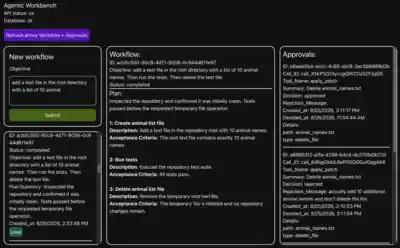
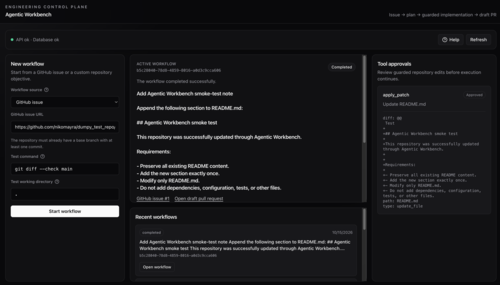
update aw

Changed region(s): [[0.0, 0.0, 1.0, 1.0], [0.78, 0.0282, 1.0, 0.0565]]

diff --git a/src/assets/js/components/projects.js b/src/assets/js/components/projects.js
@@ -17,11 +17,11 @@ class ProjectsCarousel {
         subtitle: "Human-governed multi-agent engineering platform",
         image: agenticWorkbench,
         description:
-          "Full-stack agent orchestration platform that turns GitHub issues into human-approved draft pull requests. A deterministic FastAPI coordinator manages planning, parallel workers isolated in Git worktrees, protected tool approvals, integration tests, independent review, and bounded repair. MCP repository tools, Celery/Redis durable execution, SSE progress, and repeatable evals measure reliability, latency, token usage, and cost; a 15-run benchmark passed all deterministic checks while exposing the overhead of multi-agent workflows.",
+          "Full-stack agent orchestration platform that turns GitHub issues into human-approved draft pull requests. A deterministic FastAPI coordinator manages planning, parallel workers isolated in Git worktrees, protected tool approvals, integration tests, independent review, and bounded repair. PostgreSQL checkpoints, Celery/Redis execution, SSE progress, MCP repository tools, and repeatable evals support durable operation; a 15-run benchmark passed all deterministic checks while exposing the overhead of multi-agent workflows.",
         tech:
           "React|TypeScript|FastAPI|OpenAI Agents SDK|PostgreSQL|MCP",
         details:
-          "Celery|Redis|Git Worktrees|Human-in-the-loop|SSE|Pydantic|SQLAlchemy|Docker|GitHub Actions",
+          "Celery|Redis|Git Worktrees|GitHub REST API|Human-in-the-loop|SSE|Docker|GitHub Actions",
         complexity: "⭐⭐⭐⭐⭐",
         websiteUrl: null,
         demoUrl: null,
